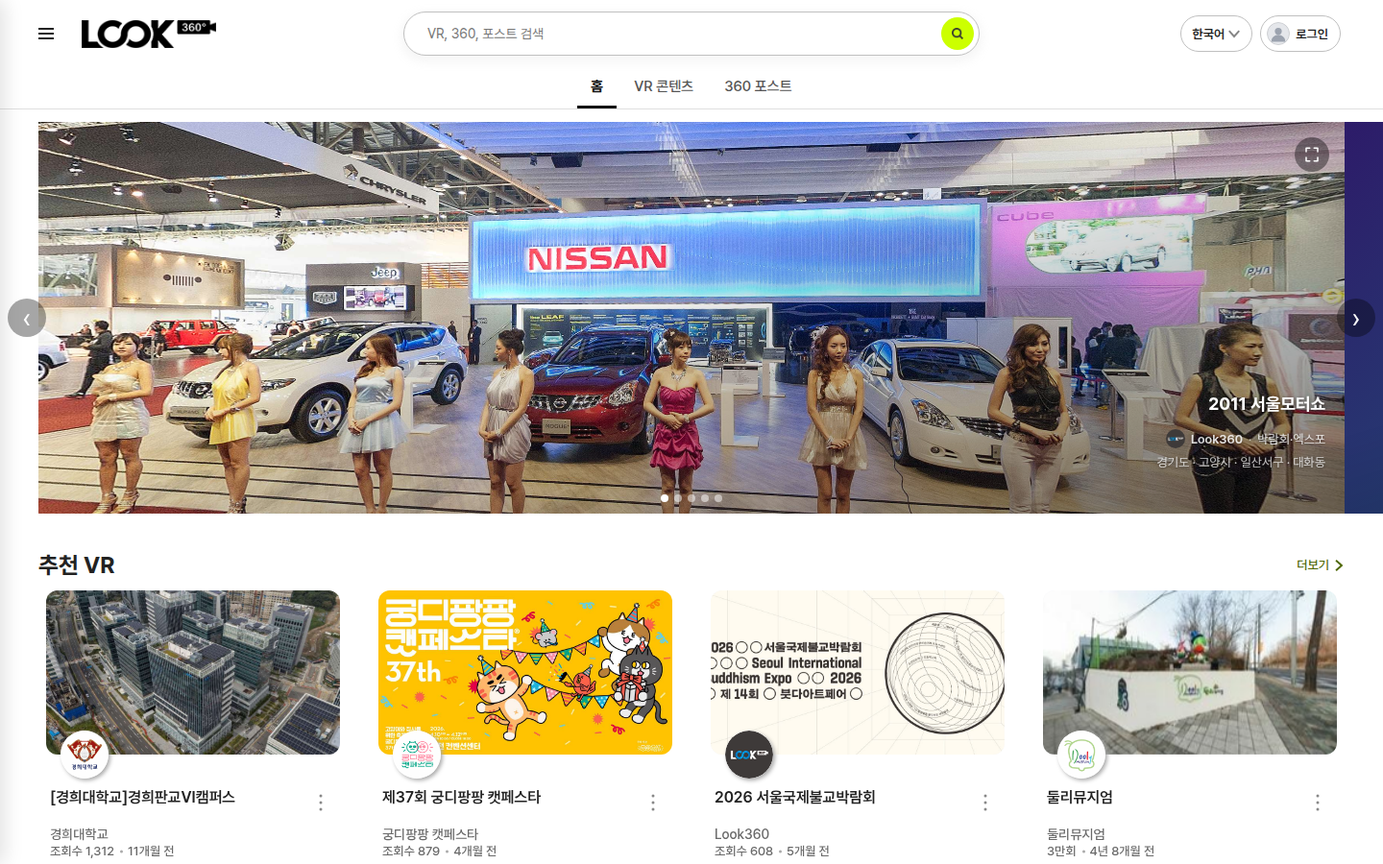
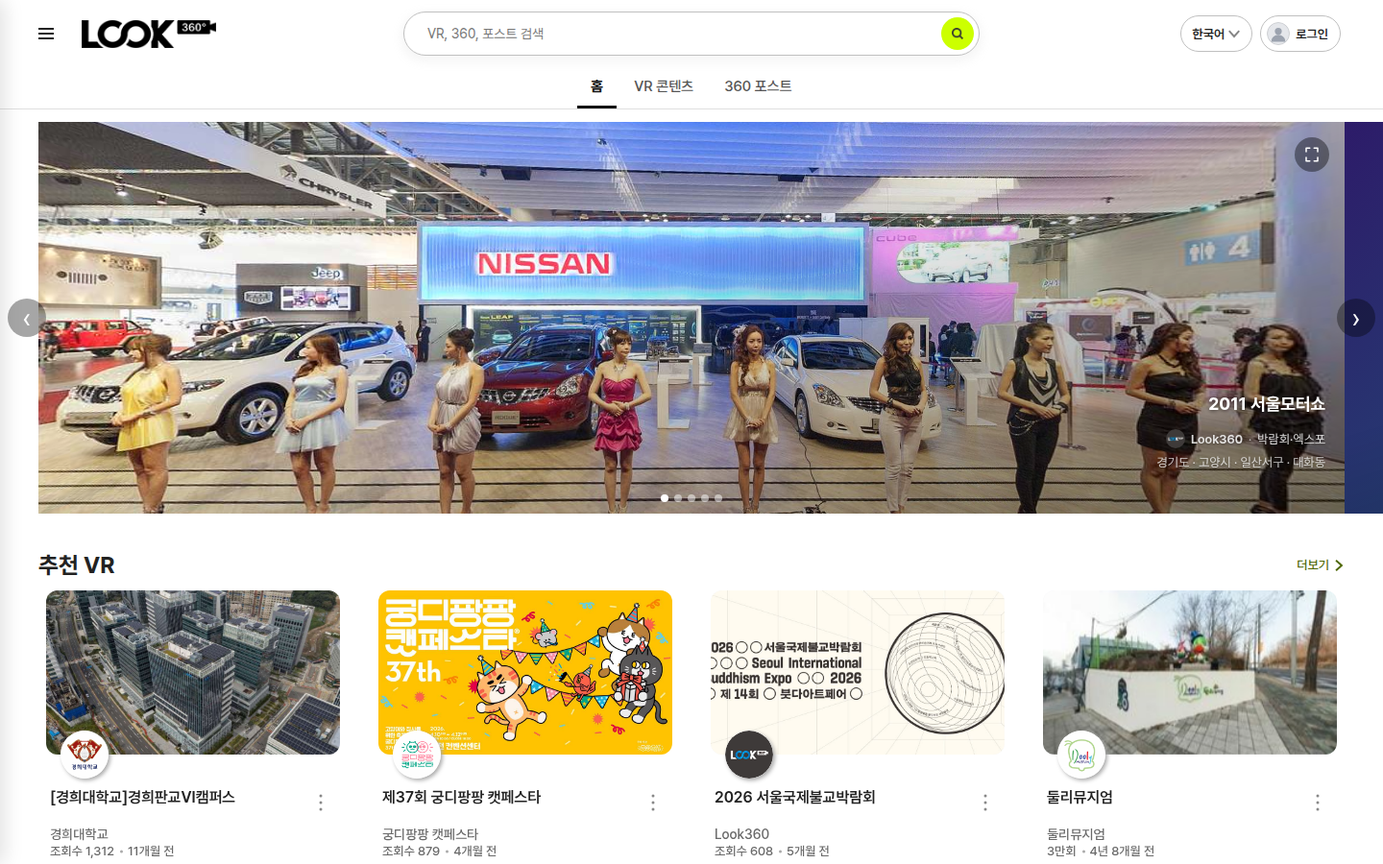
feat(weekly): 화면 자동 캡처 스크립트 + 관리자 실화면 3장 반영
scripts/capture-weekly.mjs
- 사용자 FE 4종 + 관리자 4종을 한 번에 캡처, 발행일 폴더로 저장
- 관리자 인증은 nestjs .env 의 JWT_ACCESS_SECRET 자가서명 accessToken 쿠키
  (사용자 FE 와 동일 계정·동일 로직, 비밀번호 불필요 / 개발 서버 전용)
- playwright-core 는 버전 하드코딩 대신 pnpm 스토어에서 자동 탐색
- 서버 헬스체크 후 실행, 실패 시 화면별 사유 출력 + exit 1 (조용한 실패 금지)
- 크롭 프리셋(hero) 지원, 마크다운 붙여넣기 줄 자동 출력

2026-09-02 덱
- 관리자 실화면 3장 추가 — 검색 트렌드 / 히어로 풀 구성 / 판매 위반 3건 배지
- 이미지 파일명을 스크립트 산출 규칙으로 통일, 30장 → 33장 (오버플로 0)

diff --git a/weekly-reports/2026-09-02.html b/weekly-reports/2026-09-02.html
@@ -5,7 +5,7 @@
 <hr />
 <p>Indyspot AI Corp  ·  Engineering Manager  ·  2026-09-02</p>
 </section>
-</foreignObject></svg><svg data-marpit-svg="" viewBox="0 0 1280 720"><foreignObject width="1280" height="720"><section id="2" data-paginate="true" data-class="agenda" data-theme="clean" lang="ko-KR" class="agenda" data-marpit-pagination="2" style="--paginate:true;--class:agenda;--theme:clean;" data-marpit-pagination-total="30">
+</foreignObject></svg><svg data-marpit-svg="" viewBox="0 0 1280 720"><foreignObject width="1280" height="720"><section id="2" data-paginate="true" data-class="agenda" data-theme="clean" lang="ko-KR" class="agenda" data-marpit-pagination="2" style="--paginate:true;--class:agenda;--theme:clean;" data-marpit-pagination-total="33">
 <h2 id="%EC%9D%B4%EB%B2%88-%EC%A3%BC-%EC%A3%BC%EC%9A%94-%EC%9E%91%EC%97%85--%EC%B2%AB-%ED%99%94%EB%A9%B4%EC%9D%84-%EB%8B%A4%EC%8B%9C-%EB%A7%8C%EB%93%A4%EA%B3%A0-%EA%B4%80%EB%A6%AC%EC%9E%90%EC%97%90%EA%B2%8C-%EB%88%88%EC%9D%84-%EB%8B%AC%EC%95%84%EC%A4%80-%EC%A3%BC%EA%B0%84">이번 주 주요 작업 — 「첫 화면을 다시 만들고, 관리자에게 눈을 달아준」 주간</h2>
 <div class="cols">
 <div class="col">
@@ -43,18 +43,18 @@
 </div>
 </div>
 </section>
-</foreignObject></svg><svg data-marpit-svg="" viewBox="0 0 1280 720"><foreignObject width="1280" height="720"><section id="3" data-paginate="true" data-class="sec" data-theme="clean" lang="ko-KR" class="sec" data-marpit-pagination="3" style="--paginate:true;--class:sec;--theme:clean;" data-marpit-pagination-total="30">
+</foreignObject></svg><svg data-marpit-svg="" viewBox="0 0 1280 720"><foreignObject width="1280" height="720"><section id="3" data-paginate="true" data-class="sec" data-theme="clean" lang="ko-KR" class="sec" data-marpit-pagination="3" style="--paginate:true;--class:sec;--theme:clean;" data-marpit-pagination-total="33">
 <p><span class="sec-num">Section 01</span></p>
 <h2 id="%ED%99%88-%ED%99%94%EB%A9%B4--%EC%B2%AB%EC%9D%B8%EC%83%81%EC%9D%84-%EB%8B%A4%EC%8B%9C-%EB%A7%8C%EB%93%A4%EB%8B%A4">홈 화면 — 첫인상을 다시 만들다</h2>
 <p>메인 슬라이드를 이미지 배너에서 「실제로 돌려볼 수 있는 360VIEW」로 교체했습니다.</p>
 </section>
-</foreignObject></svg><svg data-marpit-svg="" viewBox="0 0 1280 720"><foreignObject width="1280" height="720"><section id="4" data-paginate="true" data-theme="clean" lang="ko-KR" data-marpit-pagination="4" style="--paginate:true;--theme:clean;" data-marpit-pagination-total="30">
+</foreignObject></svg><svg data-marpit-svg="" viewBox="0 0 1280 720"><foreignObject width="1280" height="720"><section id="4" data-paginate="true" data-theme="clean" lang="ko-KR" data-marpit-pagination="4" style="--paginate:true;--theme:clean;" data-marpit-pagination-total="33">
 <h2 id="%F0%9F%8F%A0-%ED%99%88-%EB%A9%94%EC%9D%B8-%EC%8A%AC%EB%9D%BC%EC%9D%B4%EB%93%9C-360view-%EC%A0%84%EB%A9%B4-%EA%B5%90%EC%B2%B4-span-classbadge-date827829span-span-classbadge-newnewspan"><img class="emoji" draggable="false" alt="🏠" src="https://cdn.jsdelivr.net/gh/jdecked/twemoji@17.0.3/assets/svg/1f3e0.svg" data-marp-twemoji=""/> 홈 메인 슬라이드 360VIEW 전면 교체 <span class="badge-date">8/27~8/29</span> <span class="badge-new">NEW</span></h2>
 <p>기존 배너는 관리자가 하나씩 등록한 <span class="hl-gray">고정 이미지</span>였습니다. 이제 실제 360VIEW 콘텐츠가 <span class="hl-green">자동으로 재생</span>되며, 방문할 때마다 다른 콘텐츠가 나옵니다.</p>
-<p><img src="assets/2026-09-02/01b-home-hero-crop.png" alt="" style="width:940px;" /></p>
+<p><img src="assets/2026-09-02/01-home-hero-crop.png" alt="" style="width:940px;" /></p>
 <figcaption>실제 개발 서버 홈 화면 — 자동재생 중인 360VIEW · 우하단 3줄 정보(제목 / 채널·카테고리 / 지역) · 우상단 전체화면 버튼 · 하단 랜덤 5장 인디케이터</figcaption>
 </section>
-</foreignObject></svg><svg data-marpit-svg="" viewBox="0 0 1280 720"><foreignObject width="1280" height="720"><section id="5" data-paginate="true" data-theme="clean" lang="ko-KR" data-marpit-pagination="5" style="--paginate:true;--theme:clean;" data-marpit-pagination-total="30">
+</foreignObject></svg><svg data-marpit-svg="" viewBox="0 0 1280 720"><foreignObject width="1280" height="720"><section id="5" data-paginate="true" data-theme="clean" lang="ko-KR" data-marpit-pagination="5" style="--paginate:true;--theme:clean;" data-marpit-pagination-total="33">
 <h2 id="%F0%9F%94%84-%EB%AC%B4%EC%97%87%EC%9D%B4-%EB%B0%94%EB%80%8C%EC%97%88%EB%82%98-span-classbadge-date827829span"><img class="emoji" draggable="false" alt="🔄" src="https://cdn.jsdelivr.net/gh/jdecked/twemoji@17.0.3/assets/svg/1f504.svg" data-marp-twemoji=""/> 무엇이 바뀌었나 <span class="badge-date">8/27~8/29</span></h2>
 <table>
 <thead>
@@ -101,7 +101,7 @@
 <p>모바일에서 슬라이드 위에 손가락이 닿으면 페이지 스크롤이 막혀 <span class="hl-red">아래로 내려갈 수 없던 문제</span>(일명 개미지옥)도 함께 해소했습니다.</p>
 </blockquote>
 </section>
-</foreignObject></svg><svg data-marpit-svg="" viewBox="0 0 1280 720"><foreignObject width="1280" height="720"><section id="6" data-paginate="true" data-theme="clean" lang="ko-KR" data-marpit-pagination="6" style="--paginate:true;--theme:clean;" data-marpit-pagination-total="30">
+</foreignObject></svg><svg data-marpit-svg="" viewBox="0 0 1280 720"><foreignObject width="1280" height="720"><section id="6" data-paginate="true" data-theme="clean" lang="ko-KR" data-marpit-pagination="6" style="--paginate:true;--theme:clean;" data-marpit-pagination-total="33">
 <h2 id="%F0%9F%9B%A1%EF%B8%8F-%ED%99%88%EC%97%90-%EB%82%98%EC%98%A4%EB%A9%B4-%EC%95%88-%EB%90%98%EB%8A%94-%EC%BD%98%ED%85%90%EC%B8%A0-%EC%B0%A8%EB%8B%A8-span-classbadge-date829span-span-classbadge-newnewspan"><img class="emoji" draggable="false" alt="🛡" src="https://cdn.jsdelivr.net/gh/jdecked/twemoji@17.0.3/assets/svg/1f6e1.svg" data-marp-twemoji=""/> 홈에 나오면 안 되는 콘텐츠 차단 <span class="badge-date">8/29</span> <span class="badge-new">NEW</span></h2>
 <p>랜덤 노출이 도입되면서 <span class="hl-red">아무 콘텐츠나 첫 화면에 뜰 수 있는 위험</span>이 생겼습니다. 노출 자격을 서버에서 다시 판정하도록 했습니다.</p>
 <table>
@@ -134,7 +134,7 @@
 <p>감상 기록 오염도 함께 발견해 처리 중입니다 — 홈 슬라이드는 로그인 사용자의 <span class="hl-red">「내가 본 콘텐츠」에 자동 기록</span>되고 있었습니다. 보지 않은 콘텐츠가 기록되던 문제로, 수정은 완료되어 <span class="hl-amber">검토 단계</span>입니다.</p>
 </blockquote>
 </section>
-</foreignObject></svg><svg data-marpit-svg="" viewBox="0 0 1280 720"><foreignObject width="1280" height="720"><section id="7" data-paginate="true" data-theme="clean" lang="ko-KR" data-marpit-pagination="7" style="--paginate:true;--theme:clean;" data-marpit-pagination-total="30">
+</foreignObject></svg><svg data-marpit-svg="" viewBox="0 0 1280 720"><foreignObject width="1280" height="720"><section id="7" data-paginate="true" data-theme="clean" lang="ko-KR" data-marpit-pagination="7" style="--paginate:true;--theme:clean;" data-marpit-pagination-total="33">
 <h2 id="%F0%9F%A7%A9-%ED%99%88-%ED%99%94%EB%A9%B4-%EB%82%98%EB%A8%B8%EC%A7%80-%EA%B2%B0%ED%95%A8-3%EA%B1%B4-span-classbadge-date83191span"><img class="emoji" draggable="false" alt="🧩" src="https://cdn.jsdelivr.net/gh/jdecked/twemoji@17.0.3/assets/svg/1f9e9.svg" data-marp-twemoji=""/> 홈 화면 나머지 결함 3건 <span class="badge-date">8/31~9/1</span></h2>
 <div class="cols">
 <div class="col">
@@ -158,12 +158,12 @@
 <p>미리보기 썸네일이 <span class="hl-red">깨진 경우 무한 로딩 표시</span>로 위장되던 문제도 함께 수정했습니다.</p>
 </blockquote>
 </section>
-</foreignObject></svg><svg data-marpit-svg="" viewBox="0 0 1280 720"><foreignObject width="1280" height="720"><section id="8" data-paginate="true" data-class="sec" data-theme="clean" lang="ko-KR" class="sec" data-marpit-pagination="8" style="--paginate:true;--class:sec;--theme:clean;" data-marpit-pagination-total="30">
+</foreignObject></svg><svg data-marpit-svg="" viewBox="0 0 1280 720"><foreignObject width="1280" height="720"><section id="8" data-paginate="true" data-class="sec" data-theme="clean" lang="ko-KR" class="sec" data-marpit-pagination="8" style="--paginate:true;--class:sec;--theme:clean;" data-marpit-pagination-total="33">
 <p><span class="sec-num">Section 02</span></p>
 <h2 id="vr-%EA%B0%90%EC%83%81-%ED%99%94%EB%A9%B4--%EC%96%B8%EC%96%B4%EB%A5%BC-%EB%B0%94%EA%BF%A8%EB%8A%94%EB%8D%B0-%EC%95%88-%EB%B0%94%EB%80%8C%EB%8A%94-%EA%B2%83%EB%93%A4">VR 감상 화면 — 「언어를 바꿨는데 안 바뀌는 것들」</h2>
 <p>콘텐츠 언어를 전환했을 때 따라 바뀌지 않던 표시를 전수 정리했습니다.</p>
 </section>
-</foreignObject></svg><svg data-marpit-svg="" viewBox="0 0 1280 720"><foreignObject width="1280" height="720"><section id="9" data-paginate="true" data-theme="clean" lang="ko-KR" data-marpit-pagination="9" style="--paginate:true;--theme:clean;" data-marpit-pagination-total="30">
+</foreignObject></svg><svg data-marpit-svg="" viewBox="0 0 1280 720"><foreignObject width="1280" height="720"><section id="9" data-paginate="true" data-theme="clean" lang="ko-KR" data-marpit-pagination="9" style="--paginate:true;--theme:clean;" data-marpit-pagination-total="33">
 <h2 id="%F0%9F%88%AF-%EC%96%B8%EC%96%B4%EB%A5%BC-%EB%B0%94%EA%BF%94%EB%8F%84-%EC%95%88-%EB%B0%94%EB%80%8C%EB%8D%98-%ED%91%9C%EC%8B%9C-span-classbadge-date826827span-span-classbadge-newnewspan"><img class="emoji" draggable="false" alt="🈯" src="https://cdn.jsdelivr.net/gh/jdecked/twemoji@17.0.3/assets/svg/1f22f.svg" data-marp-twemoji=""/> 언어를 바꿔도 안 바뀌던 표시 <span class="badge-date">8/26~8/27</span> <span class="badge-new">NEW</span></h2>
 <p>오너가 직접 뷰어에서 언어를 바꿔 보며 발견한 결함들입니다. <span class="hl-blue">이 한 건에서만 23개 작업</span>이 나왔습니다.</p>
 <table>
@@ -193,7 +193,7 @@
 </tbody>
 </table>
 </section>
-</foreignObject></svg><svg data-marpit-svg="" viewBox="0 0 1280 720"><foreignObject width="1280" height="720"><section id="10" data-paginate="true" data-theme="clean" lang="ko-KR" data-marpit-pagination="10" style="--paginate:true;--theme:clean;" data-marpit-pagination-total="30">
+</foreignObject></svg><svg data-marpit-svg="" viewBox="0 0 1280 720"><foreignObject width="1280" height="720"><section id="10" data-paginate="true" data-theme="clean" lang="ko-KR" data-marpit-pagination="10" style="--paginate:true;--theme:clean;" data-marpit-pagination-total="33">
 <h2 id="%F0%9F%94%A4-%EC%96%B8%EC%96%B4-%EC%A0%84%ED%99%98-%EB%8F%99%EC%9E%91-%EC%9E%90%EC%B2%B4%EC%9D%98-%EA%B2%B0%ED%95%A8-span-classbadge-date825828span"><img class="emoji" draggable="false" alt="🔤" src="https://cdn.jsdelivr.net/gh/jdecked/twemoji@17.0.3/assets/svg/1f524.svg" data-marp-twemoji=""/> 언어 전환 동작 자체의 결함 <span class="badge-date">8/25~8/28</span></h2>
 <div class="cols">
 <div class="col">
@@ -231,7 +231,7 @@
 </tbody>
 </table>
 </section>
-</foreignObject></svg><svg data-marpit-svg="" viewBox="0 0 1280 720"><foreignObject width="1280" height="720"><section id="11" data-paginate="true" data-theme="clean" lang="ko-KR" data-marpit-pagination="11" style="--paginate:true;--theme:clean;" data-marpit-pagination-total="30">
+</foreignObject></svg><svg data-marpit-svg="" viewBox="0 0 1280 720"><foreignObject width="1280" height="720"><section id="11" data-paginate="true" data-theme="clean" lang="ko-KR" data-marpit-pagination="11" style="--paginate:true;--theme:clean;" data-marpit-pagination-total="33">
 <h2 id="%F0%9F%8E%9B%EF%B8%8F-%EA%B0%90%EC%83%81-%ED%99%94%EB%A9%B4-%EC%82%AC%EC%9A%A9%EC%84%B1-5%EA%B1%B4-span-classbadge-date827828span"><img class="emoji" draggable="false" alt="🎛" src="https://cdn.jsdelivr.net/gh/jdecked/twemoji@17.0.3/assets/svg/1f39b.svg" data-marp-twemoji=""/> 감상 화면 사용성 5건 <span class="badge-date">8/27~8/28</span></h2>
 <table>
 <thead>
@@ -267,18 +267,18 @@
 <p>「보기 방식」은 VR을 어떻게 볼지 고르는 기능(일반·자이로·VR 안경 등)으로, 무엇인지 몰라 못 쓰던 기능에 설명을 붙였습니다.</p>
 </blockquote>
 </section>
-</foreignObject></svg><svg data-marpit-svg="" viewBox="0 0 1280 720"><foreignObject width="1280" height="720"><section id="12" data-paginate="true" data-class="sec" data-theme="clean" lang="ko-KR" class="sec" data-marpit-pagination="12" style="--paginate:true;--class:sec;--theme:clean;" data-marpit-pagination-total="30">
+</foreignObject></svg><svg data-marpit-svg="" viewBox="0 0 1280 720"><foreignObject width="1280" height="720"><section id="12" data-paginate="true" data-class="sec" data-theme="clean" lang="ko-KR" class="sec" data-marpit-pagination="12" style="--paginate:true;--class:sec;--theme:clean;" data-marpit-pagination-total="33">
 <p><span class="sec-num">Section 03</span></p>
 <h2 id="%EB%AA%A9%EB%A1%9D--%EA%B2%80%EC%83%89--%EC%B0%BE%EB%8A%94-%EA%B2%BD%EB%A1%9C%EB%A5%BC-%EC%A0%95%EB%A6%AC">목록 · 검색 — 찾는 경로를 정리</h2>
 <p>카드 표시 규격과 검색 자동완성의 「결과 주체」를 재정의했습니다.</p>
 </section>
-</foreignObject></svg><svg data-marpit-svg="" viewBox="0 0 1280 720"><foreignObject width="1280" height="720"><section id="13" data-paginate="true" data-theme="clean" lang="ko-KR" data-marpit-pagination="13" style="--paginate:true;--theme:clean;" data-marpit-pagination-total="30">
+</foreignObject></svg><svg data-marpit-svg="" viewBox="0 0 1280 720"><foreignObject width="1280" height="720"><section id="13" data-paginate="true" data-theme="clean" lang="ko-KR" data-marpit-pagination="13" style="--paginate:true;--theme:clean;" data-marpit-pagination-total="33">
 <h2 id="%F0%9F%94%8D-%EA%B2%80%EC%83%89-%EC%9E%90%EB%8F%99%EC%99%84%EC%84%B1--%EB%AC%B4%EC%97%87%EC%9D%84-%EB%B3%B4%EC%97%AC%EC%A4%84-%EA%B2%83%EC%9D%B8%EA%B0%80-span-classbadge-date828829span-span-classbadge-newnewspan"><img class="emoji" draggable="false" alt="🔍" src="https://cdn.jsdelivr.net/gh/jdecked/twemoji@17.0.3/assets/svg/1f50d.svg" data-marp-twemoji=""/> 검색 자동완성 — 무엇을 보여줄 것인가 <span class="badge-date">8/28~8/29</span> <span class="badge-new">NEW</span></h2>
 <p>기존 자동완성은 <span class="hl-red">장소(place)</span>를 함께 보여줬습니다. 사용자가 찾는 것은 장소가 아니라 <span class="hl-green">볼 수 있는 콘텐츠</span>라는 판단으로 소스를 교체했습니다.</p>
-<p><img src="assets/2026-09-02/04-autocomplete.png" alt="" style="width:596px;" /></p>
+<p><img src="assets/2026-09-02/03-autocomplete.png" alt="" style="width:596px;" /></p>
 <figcaption>실제 화면 — VR · 파노라마 · 360포스트 · 채널 배지로 종류를 구분. 장소는 제거됨</figcaption>
 </section>
-</foreignObject></svg><svg data-marpit-svg="" viewBox="0 0 1280 720"><foreignObject width="1280" height="720"><section id="14" data-paginate="true" data-theme="clean" lang="ko-KR" data-marpit-pagination="14" style="--paginate:true;--theme:clean;" data-marpit-pagination-total="30">
+</foreignObject></svg><svg data-marpit-svg="" viewBox="0 0 1280 720"><foreignObject width="1280" height="720"><section id="14" data-paginate="true" data-theme="clean" lang="ko-KR" data-marpit-pagination="14" style="--paginate:true;--theme:clean;" data-marpit-pagination-total="33">
 <h2 id="%F0%9F%93%8B-%EB%AA%A9%EB%A1%9D-%EC%B9%B4%EB%93%9C-%ED%91%9C%EC%8B%9C-%EA%B7%9C%EA%B2%A9-span-classbadge-date827828span"><img class="emoji" draggable="false" alt="📋" src="https://cdn.jsdelivr.net/gh/jdecked/twemoji@17.0.3/assets/svg/1f4cb.svg" data-marp-twemoji=""/> 목록 카드 표시 규격 <span class="badge-date">8/27~8/28</span></h2>
 <div class="cols">
 <div class="col">
@@ -292,16 +292,16 @@
 </ul>
 </div>
 <div class="col">
-<p><img src="assets/2026-09-02/03-vrlist.png" alt="" style="width:390px;" /></p>
+<p><img src="assets/2026-09-02/02-vrlist.png" alt="" style="width:390px;" /></p>
 </div>
 </div>
 </section>
-</foreignObject></svg><svg data-marpit-svg="" viewBox="0 0 1280 720"><foreignObject width="1280" height="720"><section id="15" data-paginate="true" data-class="sec" data-theme="clean" lang="ko-KR" class="sec" data-marpit-pagination="15" style="--paginate:true;--class:sec;--theme:clean;" data-marpit-pagination-total="30">
+</foreignObject></svg><svg data-marpit-svg="" viewBox="0 0 1280 720"><foreignObject width="1280" height="720"><section id="15" data-paginate="true" data-class="sec" data-theme="clean" lang="ko-KR" class="sec" data-marpit-pagination="15" style="--paginate:true;--class:sec;--theme:clean;" data-marpit-pagination-total="33">
 <p><span class="sec-num">Section 04</span></p>
 <h2 id="%EB%A7%88%EC%9D%B4%ED%8E%98%EC%9D%B4%EC%A7%80--%EC%95%8C%EB%A6%BC">마이페이지 · 알림</h2>
 <p>사용자 개인 지면의 조작 결함을 정리했습니다.</p>
 </section>
-</foreignObject></svg><svg data-marpit-svg="" viewBox="0 0 1280 720"><foreignObject width="1280" height="720"><section id="16" data-paginate="true" data-theme="clean" lang="ko-KR" data-marpit-pagination="16" style="--paginate:true;--theme:clean;" data-marpit-pagination-total="30">
+</foreignObject></svg><svg data-marpit-svg="" viewBox="0 0 1280 720"><foreignObject width="1280" height="720"><section id="16" data-paginate="true" data-theme="clean" lang="ko-KR" data-marpit-pagination="16" style="--paginate:true;--theme:clean;" data-marpit-pagination-total="33">
 <h2 id="%F0%9F%91%A4-%EB%A7%88%EC%9D%B4%ED%8E%98%EC%9D%B4%EC%A7%80--%EC%95%8C%EB%A6%BC-5%EA%B1%B4-span-classbadge-date82791span"><img class="emoji" draggable="false" alt="👤" src="https://cdn.jsdelivr.net/gh/jdecked/twemoji@17.0.3/assets/svg/1f464.svg" data-marp-twemoji=""/> 마이페이지 · 알림 5건 <span class="badge-date">8/27~9/1</span></h2>
 <table>
 <thead>
@@ -343,14 +343,19 @@
 <p>관리자 알림벨의 「모든 알림 보기」는 <span class="hl-gray">이동할 화면 자체가 없어</span> 버튼을 제거했습니다.</p>
 </blockquote>
 </section>
-</foreignObject></svg><svg data-marpit-svg="" viewBox="0 0 1280 720"><foreignObject width="1280" height="720"><section id="17" data-paginate="true" data-class="sec" data-theme="clean" lang="ko-KR" class="sec" data-marpit-pagination="17" style="--paginate:true;--class:sec;--theme:clean;" data-marpit-pagination-total="30">
+</foreignObject></svg><svg data-marpit-svg="" viewBox="0 0 1280 720"><foreignObject width="1280" height="720"><section id="17" data-paginate="true" data-class="sec" data-theme="clean" lang="ko-KR" class="sec" data-marpit-pagination="17" style="--paginate:true;--class:sec;--theme:clean;" data-marpit-pagination-total="33">
 <p><span class="sec-num">Section 05</span></p>
 <h2 id="%EA%B4%80%EB%A6%AC%EC%9E%90-%ED%99%94%EB%A9%B4--%EC%97%86%EB%8D%98-%EB%88%88%EC%9D%84-%EB%8B%AC%EB%8B%A4">관리자 화면 — 없던 눈을 달다</h2>
 <p>관리자가 볼 수 없던 정보를 화면으로 만들었습니다. 이번 주 신설 2종입니다.</p>
 </section>
-</foreignObject></svg><svg data-marpit-svg="" viewBox="0 0 1280 720"><foreignObject width="1280" height="720"><section id="18" data-paginate="true" data-theme="clean" lang="ko-KR" data-marpit-pagination="18" style="--paginate:true;--theme:clean;" data-marpit-pagination-total="30">
+</foreignObject></svg><svg data-marpit-svg="" viewBox="0 0 1280 720"><foreignObject width="1280" height="720"><section id="18" data-paginate="true" data-theme="clean" lang="ko-KR" data-marpit-pagination="18" style="--paginate:true;--theme:clean;" data-marpit-pagination-total="33">
 <h2 id="%F0%9F%93%8A-%EA%B2%80%EC%83%89-%ED%8A%B8%EB%A0%8C%EB%93%9C-%ED%86%B5%EA%B3%84-%ED%99%94%EB%A9%B4-span-classbadge-date828span-span-classbadge-newnewspan"><img class="emoji" draggable="false" alt="📊" src="https://cdn.jsdelivr.net/gh/jdecked/twemoji@17.0.3/assets/svg/1f4ca.svg" data-marp-twemoji=""/> 검색 트렌드 통계 화면 <span class="badge-date">8/28</span> <span class="badge-new">NEW</span></h2>
 <p>사용자가 <span class="hl-blue">무엇을 검색하는지</span>, 그리고 <span class="hl-red">검색했는데 아무것도 못 찾았는지</span>를 처음으로 볼 수 있게 됐습니다.</p>
+<p><img src="assets/2026-09-02/05-admin-search-trends.png" alt="" style="width:700px;" /></p>
+<figcaption>관리자 화면 실측 — 일간·주간·월간 전환 · 인기 검색어 순위 · 결과 0건 검색어 · 집계 시작일 안내</figcaption>
+</section>
+</foreignObject></svg><svg data-marpit-svg="" viewBox="0 0 1280 720"><foreignObject width="1280" height="720"><section id="19" data-paginate="true" data-theme="clean" lang="ko-KR" data-marpit-pagination="19" style="--paginate:true;--theme:clean;" data-marpit-pagination-total="33">
+<h2 id="%F0%9F%93%88-%EA%B2%80%EC%83%89-%ED%8A%B8%EB%A0%8C%EB%93%9C--%EB%AC%B4%EC%97%87%EC%9D%84-%EB%B3%BC-%EC%88%98-%EC%9E%88%EB%82%98-span-classbadge-date828span"><img class="emoji" draggable="false" alt="📈" src="https://cdn.jsdelivr.net/gh/jdecked/twemoji@17.0.3/assets/svg/1f4c8.svg" data-marp-twemoji=""/> 검색 트렌드 — 무엇을 볼 수 있나 <span class="badge-date">8/28</span></h2>
 <table>
 <thead>
 <tr>
@@ -361,15 +366,19 @@
 <tbody>
 <tr>
 <td>인기 검색어</td>
-<td>기간별 검색어 순위</td>
+<td>기간별 검색어 순위 · 검색 횟수 · 검색 사용자 수</td>
 </tr>
 <tr>
 <td><span class="hl-red">결과 0건 검색어</span></td>
-<td>사용자가 찾았지만 <span class="hl-red">콘텐츠가 없어 빈손으로 돌아간</span> 검색어 — 콘텐츠 확보 우선순위 판단에 사용</td>
+<td>사용자가 찾았지만 <span class="hl-red">콘텐츠가 없어 빈손으로 돌아간</span> 검색어 — <span class="hl-green">콘텐츠 확보 우선순위</span> 판단에 사용</td>
 </tr>
 <tr>
 <td>집계 안내</td>
-<td>언제까지 집계된 수치인지 배너로 표시</td>
+<td>언제부터 집계된 수치인지 배너로 표시 (현재 <span class="hl-blue">2026-08-28</span>부터)</td>
+</tr>
+<tr>
+<td>자동완성 제외</td>
+<td>타이핑 중간값이 순위를 왜곡하지 않도록 <span class="hl-green">기본 제외</span> (토글로 포함 가능)</td>
 </tr>
 </tbody>
 </table>
@@ -377,13 +386,13 @@
 <p>이를 위해 검색 기록에 <span class="hl-green">「결과 몇 건이 나왔는지」를 저장하는 항목을 신설</span>하고, 검색을 호출하는 7개 지점을 모두 새 방식으로 이관했습니다. 기록되지 않던 정보라 <span class="hl-amber">집계는 신설 시점부터 쌓입니다.</span></p>
 </blockquote>
 </section>
-</foreignObject></svg><svg data-marpit-svg="" viewBox="0 0 1280 720"><foreignObject width="1280" height="720"><section id="19" data-paginate="true" data-theme="clean" lang="ko-KR" data-marpit-pagination="19" style="--paginate:true;--theme:clean;" data-marpit-pagination-total="30">
+</foreignObject></svg><svg data-marpit-svg="" viewBox="0 0 1280 720"><foreignObject width="1280" height="720"><section id="20" data-paginate="true" data-theme="clean" lang="ko-KR" data-marpit-pagination="20" style="--paginate:true;--theme:clean;" data-marpit-pagination-total="33">
 <h2 id="%E2%9D%93-faq-%EC%B9%B4%ED%85%8C%EA%B3%A0%EB%A6%AC-%EA%B0%9C%ED%8E%B8-span-classbadge-date827828span-span-classbadge-newnewspan"><img class="emoji" draggable="false" alt="❓" src="https://cdn.jsdelivr.net/gh/jdecked/twemoji@17.0.3/assets/svg/2753.svg" data-marp-twemoji=""/> FAQ 카테고리 개편 <span class="badge-date">8/27~8/28</span> <span class="badge-new">NEW</span></h2>
 <p>FAQ에 <span class="hl-green">7종 분류</span>를 도입하고, 관리자가 직접 분류를 관리할 수 있게 했습니다.</p>
-<p><img src="assets/2026-09-02/02-faq-category.png" alt="" style="width:650px;" /></p>
+<p><img src="assets/2026-09-02/04-faq.png" alt="" style="width:650px;" /></p>
 <figcaption>실제 화면 — 상단 분류 필터 칩 + 제목 앞 분류 칩. 기존 53건 전건에 분류 배정 완료</figcaption>
 </section>
-</foreignObject></svg><svg data-marpit-svg="" viewBox="0 0 1280 720"><foreignObject width="1280" height="720"><section id="20" data-paginate="true" data-theme="clean" lang="ko-KR" data-marpit-pagination="20" style="--paginate:true;--theme:clean;" data-marpit-pagination-total="30">
+</foreignObject></svg><svg data-marpit-svg="" viewBox="0 0 1280 720"><foreignObject width="1280" height="720"><section id="21" data-paginate="true" data-theme="clean" lang="ko-KR" data-marpit-pagination="21" style="--paginate:true;--theme:clean;" data-marpit-pagination-total="33">
 <h2 id="%F0%9F%94%90-faq--%EA%B4%80%EB%A6%AC%EC%9E%90-%EA%B8%B0%EB%8A%A5%EA%B3%BC-%EC%95%88%EC%A0%84%EC%9E%A5%EC%B9%98-span-classbadge-date827828span"><img class="emoji" draggable="false" alt="🔐" src="https://cdn.jsdelivr.net/gh/jdecked/twemoji@17.0.3/assets/svg/1f510.svg" data-marp-twemoji=""/> FAQ — 관리자 기능과 안전장치 <span class="badge-date">8/27~8/28</span></h2>
 <table>
 <thead>
@@ -415,12 +424,18 @@
 <p>개편 중 발견해 함께 고친 것 — 관리자가 새로 쓴 FAQ가 <span class="hl-red">공개 목록에 나오지 않던 문제</span>, 그리고 새 글에 한해 <span class="hl-red">삭제 차단이 작동하지 않던</span> 허점입니다.</p>
 </blockquote>
 </section>
-</foreignObject></svg><svg data-marpit-svg="" viewBox="0 0 1280 720"><foreignObject width="1280" height="720"><section id="21" data-paginate="true" data-class="sec" data-theme="clean" lang="ko-KR" class="sec" data-marpit-pagination="21" style="--paginate:true;--class:sec;--theme:clean;" data-marpit-pagination-total="30">
+</foreignObject></svg><svg data-marpit-svg="" viewBox="0 0 1280 720"><foreignObject width="1280" height="720"><section id="22" data-paginate="true" data-theme="clean" lang="ko-KR" data-marpit-pagination="22" style="--paginate:true;--theme:clean;" data-marpit-pagination-total="33">
+<h2 id="%F0%9F%8E%9A%EF%B8%8F-%ED%99%88-%EC%8A%AC%EB%9D%BC%EC%9D%B4%EB%93%9C%EB%A5%BC-%EA%B4%80%EB%A6%AC%EC%9E%90%EA%B0%80-%EC%A7%81%EC%A0%91-%EA%B5%AC%EC%84%B1-span-classbadge-date828span-span-classbadge-newnewspan"><img class="emoji" draggable="false" alt="🎚" src="https://cdn.jsdelivr.net/gh/jdecked/twemoji@17.0.3/assets/svg/1f39a.svg" data-marp-twemoji=""/> 홈 슬라이드를 관리자가 직접 구성 <span class="badge-date">8/28</span> <span class="badge-new">NEW</span></h2>
+<p>홈에 어떤 360VIEW를 몇 장 노출할지 <span class="hl-green">관리자가 직접 정합니다.</span> 풀을 비워두면 전체 360VIEW에서 랜덤 노출됩니다.</p>
+<p><img src="assets/2026-09-02/06-admin-main-hero.png" alt="" style="width:700px;" /></p>
+<figcaption>관리자 화면 실측 — 「풀 사용 ON」 토글 · 활성 5개 · 순서 지정. 앞 슬라이드의 홈 화면에 이 목록이 그대로 반영됩니다</figcaption>
+</section>
+</foreignObject></svg><svg data-marpit-svg="" viewBox="0 0 1280 720"><foreignObject width="1280" height="720"><section id="23" data-paginate="true" data-class="sec" data-theme="clean" lang="ko-KR" class="sec" data-marpit-pagination="23" style="--paginate:true;--class:sec;--theme:clean;" data-marpit-pagination-total="33">
 <p><span class="sec-num">Section 06</span></p>
 <h2 id="%ED%8C%90%EB%A7%A4--%EC%83%81%ED%92%88-%EB%B3%B4%ED%98%B8">판매 · 상품 보호</h2>
 <p>「팔면 안 되는 상태의 상품」이 팔리지 않도록 자동 감시를 붙였습니다.</p>
 </section>
-</foreignObject></svg><svg data-marpit-svg="" viewBox="0 0 1280 720"><foreignObject width="1280" height="720"><section id="22" data-paginate="true" data-theme="clean" lang="ko-KR" data-marpit-pagination="22" style="--paginate:true;--theme:clean;" data-marpit-pagination-total="30">
+</foreignObject></svg><svg data-marpit-svg="" viewBox="0 0 1280 720"><foreignObject width="1280" height="720"><section id="24" data-paginate="true" data-theme="clean" lang="ko-KR" data-marpit-pagination="24" style="--paginate:true;--theme:clean;" data-marpit-pagination-total="33">
 <h2 id="%F0%9F%9B%92-%EB%AF%B8%EB%A6%AC%EB%B3%B4%EA%B8%B0-%EC%97%86%EB%8A%94-%EC%83%81%ED%92%88-%EC%83%81%EC%8B%9C-%EA%B0%90%EC%8B%9C-span-classbadge-date828span-span-classbadge-newnewspan"><img class="emoji" draggable="false" alt="🛒" src="https://cdn.jsdelivr.net/gh/jdecked/twemoji@17.0.3/assets/svg/1f6d2.svg" data-marp-twemoji=""/> 미리보기 없는 상품 상시 감시 <span class="badge-date">8/28</span> <span class="badge-new">NEW</span></h2>
 <p>유료 상품은 구매 전 <span class="hl-blue">미리보기</span>가 반드시 있어야 합니다. 그동안은 <span class="hl-red">위반해도 아무도 알 수 없었습니다.</span></p>
 <table>
@@ -454,7 +469,12 @@
 </tbody>
 </table>
 </section>
-</foreignObject></svg><svg data-marpit-svg="" viewBox="0 0 1280 720"><foreignObject width="1280" height="720"><section id="23" data-paginate="true" data-theme="clean" lang="ko-KR" data-marpit-pagination="23" style="--paginate:true;--theme:clean;" data-marpit-pagination-total="30">
+</foreignObject></svg><svg data-marpit-svg="" viewBox="0 0 1280 720"><foreignObject width="1280" height="720"><section id="25" data-paginate="true" data-theme="clean" lang="ko-KR" data-marpit-pagination="25" style="--paginate:true;--theme:clean;" data-marpit-pagination-total="33">
+<h2 id="%E2%9A%A0%EF%B8%8F-%EC%9C%84%EB%B0%98-%EA%B1%B4%EC%88%98%EA%B0%80-%ED%99%94%EB%A9%B4%EC%97%90-%ED%95%AD%EC%83%81-%EB%B3%B4%EC%9D%B8%EB%8B%A4-span-classbadge-date91span-span-classbadge-newnewspan"><img class="emoji" draggable="false" alt="⚠" src="https://cdn.jsdelivr.net/gh/jdecked/twemoji@17.0.3/assets/svg/26a0.svg" data-marp-twemoji=""/> 위반 건수가 화면에 항상 보인다 <span class="badge-date">9/1</span> <span class="badge-new">NEW</span></h2>
+<p><img src="assets/2026-09-02/07-admin-sales.png" alt="" style="width:760px;" /></p>
+<figcaption>관리자 판매 설정 화면 실측 — 우측 상단 「위반 3건」 배지. 알림을 받지 못해도 화면에 들어오는 순간 바로 보입니다</figcaption>
+</section>
+</foreignObject></svg><svg data-marpit-svg="" viewBox="0 0 1280 720"><foreignObject width="1280" height="720"><section id="26" data-paginate="true" data-theme="clean" lang="ko-KR" data-marpit-pagination="26" style="--paginate:true;--theme:clean;" data-marpit-pagination-total="33">
 <h2 id="%F0%9F%93%85-%ED%8C%90%EB%A7%A4-%EA%B8%B0%EA%B0%84-90%EC%9D%BC--365%EC%9D%BC-%EC%A0%95%EC%83%81%ED%99%94-span-classbadge-date91span-span-classbadge-newnewspan"><img class="emoji" draggable="false" alt="📅" src="https://cdn.jsdelivr.net/gh/jdecked/twemoji@17.0.3/assets/svg/1f4c5.svg" data-marp-twemoji=""/> 판매 기간 90일 · 365일 정상화 <span class="badge-date">9/1</span> <span class="badge-new">NEW</span></h2>
 <div class="cols">
 <div class="col">
@@ -478,12 +498,12 @@
 <p>관리자가 통제할 수 없는 상태로 상품이 팔리고 있던 것으로, <span class="hl-amber">운영 리스크에 해당</span>하여 우선 처리했습니다.</p>
 </blockquote>
 </section>
-</foreignObject></svg><svg data-marpit-svg="" viewBox="0 0 1280 720"><foreignObject width="1280" height="720"><section id="24" data-paginate="true" data-class="sec" data-theme="clean" lang="ko-KR" class="sec" data-marpit-pagination="24" style="--paginate:true;--class:sec;--theme:clean;" data-marpit-pagination-total="30">
+</foreignObject></svg><svg data-marpit-svg="" viewBox="0 0 1280 720"><foreignObject width="1280" height="720"><section id="27" data-paginate="true" data-class="sec" data-theme="clean" lang="ko-KR" class="sec" data-marpit-pagination="27" style="--paginate:true;--class:sec;--theme:clean;" data-marpit-pagination-total="33">
 <p><span class="sec-num">Section 07</span></p>
 <h2 id="%EB%8D%B0%EC%9D%B4%ED%84%B0-%EC%A0%95%ED%95%A9--%EB%8B%A4%EA%B5%AD%EC%96%B4-%EA%B8%B0%EB%B0%98">데이터 정합 · 다국어 기반</h2>
 <p>화면 뒤에서 조용히 어긋나 있던 것들을 바로잡았습니다.</p>
 </section>
-</foreignObject></svg><svg data-marpit-svg="" viewBox="0 0 1280 720"><foreignObject width="1280" height="720"><section id="25" data-paginate="true" data-theme="clean" lang="ko-KR" data-marpit-pagination="25" style="--paginate:true;--theme:clean;" data-marpit-pagination-total="30">
+</foreignObject></svg><svg data-marpit-svg="" viewBox="0 0 1280 720"><foreignObject width="1280" height="720"><section id="28" data-paginate="true" data-theme="clean" lang="ko-KR" data-marpit-pagination="28" style="--paginate:true;--theme:clean;" data-marpit-pagination-total="33">
 <h2 id="%F0%9F%97%BA%EF%B8%8F-%EC%A7%80%EC%97%AD-%ED%95%84%ED%84%B0%EA%B0%80-%EB%B9%84%EC%96%B4-%EC%9E%88%EB%8D%98-%EC%9B%90%EC%9D%B8-span-classbadge-date829831span"><img class="emoji" draggable="false" alt="🗺" src="https://cdn.jsdelivr.net/gh/jdecked/twemoji@17.0.3/assets/svg/1f5fa.svg" data-marp-twemoji=""/> 지역 필터가 비어 있던 원인 <span class="badge-date">8/29~8/31</span></h2>
 <p>VR 목록의 <span class="hl-blue">지역별 필터</span>가 일부 콘텐츠를 잡지 못했습니다. 콘텐츠의 <span class="hl-red">주소와 지역 정보가 연결되지 않은 상태</span>였기 때문입니다.</p>
 <table>
@@ -516,7 +536,7 @@
 <p>이 검사는 <span class="hl-amber">현재 데이터에서 일부러 실패가 나오도록</span> 설계했습니다 — 남은 결측을 계속 보이게 하기 위함입니다.</p>
 </blockquote>
 </section>
-</foreignObject></svg><svg data-marpit-svg="" viewBox="0 0 1280 720"><foreignObject width="1280" height="720"><section id="26" data-paginate="true" data-theme="clean" lang="ko-KR" data-marpit-pagination="26" style="--paginate:true;--theme:clean;" data-marpit-pagination-total="30">
+</foreignObject></svg><svg data-marpit-svg="" viewBox="0 0 1280 720"><foreignObject width="1280" height="720"><section id="29" data-paginate="true" data-theme="clean" lang="ko-KR" data-marpit-pagination="29" style="--paginate:true;--theme:clean;" data-marpit-pagination-total="33">
 <h2 id="%F0%9F%8C%90-%EC%82%AC%EC%9D%B4%ED%8A%B8-%EC%96%B8%EC%96%B4-2%EC%A2%85-%E2%86%92-7%EC%A2%85-%ED%99%95%EB%8C%80-span-classbadge-date829831span"><img class="emoji" draggable="false" alt="🌐" src="https://cdn.jsdelivr.net/gh/jdecked/twemoji@17.0.3/assets/svg/1f310.svg" data-marp-twemoji=""/> 사이트 언어 2종 → 7종 확대 <span class="badge-date">8/29~8/31</span></h2>
 <div class="cols">
 <div class="col">
@@ -541,7 +561,7 @@
 <p>터키어는 오너 판단으로 <span class="hl-gray">제외</span>되었습니다. 번역문은 기계번역으로 자동 채우지 않고, <span class="hl-green">검수된 번역만 반영</span>하는 방식으로 진행 중입니다.</p>
 </blockquote>
 </section>
-</foreignObject></svg><svg data-marpit-svg="" viewBox="0 0 1280 720"><foreignObject width="1280" height="720"><section id="27" data-paginate="true" data-theme="clean" lang="ko-KR" data-marpit-pagination="27" style="--paginate:true;--theme:clean;" data-marpit-pagination-total="30">
+</foreignObject></svg><svg data-marpit-svg="" viewBox="0 0 1280 720"><foreignObject width="1280" height="720"><section id="30" data-paginate="true" data-theme="clean" lang="ko-KR" data-marpit-pagination="30" style="--paginate:true;--theme:clean;" data-marpit-pagination-total="33">
 <h2 id="%F0%9F%8E%AF-%EC%9D%B4%EB%B2%88-%EC%A3%BC-%EC%95%88%EA%B1%B4--%EC%98%A4%EB%84%88-%EA%B2%B0%EC%A0%95-%EB%8C%80%EA%B8%B0"><img class="emoji" draggable="false" alt="🎯" src="https://cdn.jsdelivr.net/gh/jdecked/twemoji@17.0.3/assets/svg/1f3af.svg" data-marp-twemoji=""/> 이번 주 안건 — 오너 결정 대기</h2>
 <p>이번 주는 <span class="hl-green">현장 결함 처리량이 컸고</span>, 남은 것은 <span class="hl-amber">데이터 처리 방침 판단 6건</span>입니다.</p>
 <table>
@@ -582,7 +602,7 @@
 <p>지난주 안건 처리 — <span class="hl-green">번역 비용 정책(IND-6447) 판정 완료</span>. <span class="hl-amber">미관람 30일 소멸(IND-6298) · 정책 4·5 가동(IND-6147) · 실 카드 결제 오픈(IND-4997) · 지역명 번역 승인(IND-6465)은 이월</span>됩니다.</p>
 </blockquote>
 </section>
-</foreignObject></svg><svg data-marpit-svg="" viewBox="0 0 1280 720"><foreignObject width="1280" height="720"><section id="28" data-paginate="true" data-theme="clean" lang="ko-KR" data-marpit-pagination="28" style="--paginate:true;--theme:clean;" data-marpit-pagination-total="30">
+</foreignObject></svg><svg data-marpit-svg="" viewBox="0 0 1280 720"><foreignObject width="1280" height="720"><section id="31" data-paginate="true" data-theme="clean" lang="ko-KR" data-marpit-pagination="31" style="--paginate:true;--theme:clean;" data-marpit-pagination-total="33">
 <h2 id="%F0%9F%93%8A-%EC%A3%BC%EA%B0%84-%EC%B2%98%EB%A6%AC%EB%9F%89"><img class="emoji" draggable="false" alt="📊" src="https://cdn.jsdelivr.net/gh/jdecked/twemoji@17.0.3/assets/svg/1f4ca.svg" data-marp-twemoji=""/> 주간 처리량</h2>
 <div class="stats">
 <div class="card"><div class="num">250</div><div class="lab">완료 작업</div></div>
@@ -630,7 +650,7 @@
 <p>서비스 지표(8/24~8/30): 주간 방문자 <span class="hl-blue">2,456명</span>(<span class="hl-green">+5.2%</span>) · 세션 <span class="hl-blue">2,701건</span>(<span class="hl-green">+7.5%</span>) · 페이지뷰 <span class="hl-blue">10,552회</span></p>
 </blockquote>
 </section>
-</foreignObject></svg><svg data-marpit-svg="" viewBox="0 0 1280 720"><foreignObject width="1280" height="720"><section id="29" data-paginate="true" data-theme="clean" lang="ko-KR" data-marpit-pagination="29" style="--paginate:true;--theme:clean;" data-marpit-pagination-total="30">
+</foreignObject></svg><svg data-marpit-svg="" viewBox="0 0 1280 720"><foreignObject width="1280" height="720"><section id="32" data-paginate="true" data-theme="clean" lang="ko-KR" data-marpit-pagination="32" style="--paginate:true;--theme:clean;" data-marpit-pagination-total="33">
 <h2 id="%F0%9F%94%97-%EB%9D%BC%EC%9D%B4%EB%B8%8C-%EC%97%94%EB%93%9C%ED%8F%AC%EC%9D%B8%ED%8A%B8"><img class="emoji" draggable="false" alt="🔗" src="https://cdn.jsdelivr.net/gh/jdecked/twemoji@17.0.3/assets/svg/1f517.svg" data-marp-twemoji=""/> 라이브 엔드포인트</h2>
 <div class="links">
 <span class="lbl">사용자</span>
@@ -651,7 +671,7 @@
 <a class="lnk legacy" href="https://look360.co.kr" target="_blank">look360.co.kr (운영)</a>
 </div>
 </section>
-</foreignObject></svg><svg data-marpit-svg="" viewBox="0 0 1280 720"><foreignObject width="1280" height="720"><section id="30" data-class="closing" data-theme="clean" lang="ko-KR" class="closing" style="--class:closing;--theme:clean;">
+</foreignObject></svg><svg data-marpit-svg="" viewBox="0 0 1280 720"><foreignObject width="1280" height="720"><section id="33" data-class="closing" data-theme="clean" lang="ko-KR" class="closing" style="--class:closing;--theme:clean;">
 <h2 id="%EA%B0%90%EC%82%AC%ED%95%A9%EB%8B%88%EB%8B%A4">감사합니다</h2>
 <p>첫 화면을 <span class="hl-green">실제로 돌려볼 수 있는 360VIEW</span>로 바꾸고, 관리자가 볼 수 없던 <span class="hl-green">검색 트렌드와 판매 위반</span>을 화면으로 만든 주간이었습니다.</p>
 <hr />
